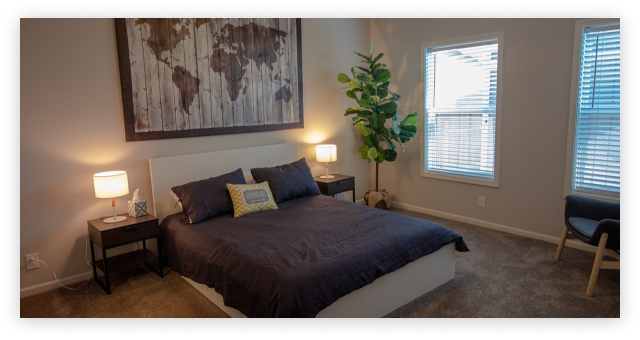
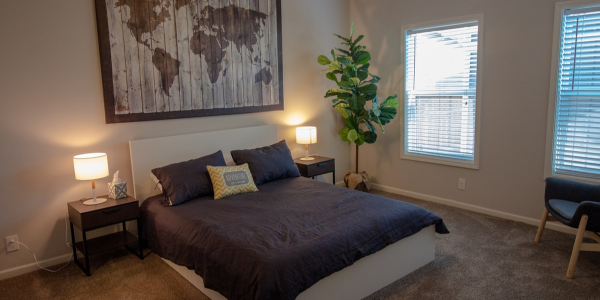
FIX: Fixed images borders

diff --git a/src/entities/RoomsElement/ui/Head/index.module.scss b/src/entities/RoomsElement/ui/Head/index.module.scss
@@ -2,7 +2,7 @@
 	position: relative;
 	& > img {
 		width: 100%;
-		height: auto;
+		height: 100%;
 		max-height: 184px;
 		object-fit: cover;
 	}
